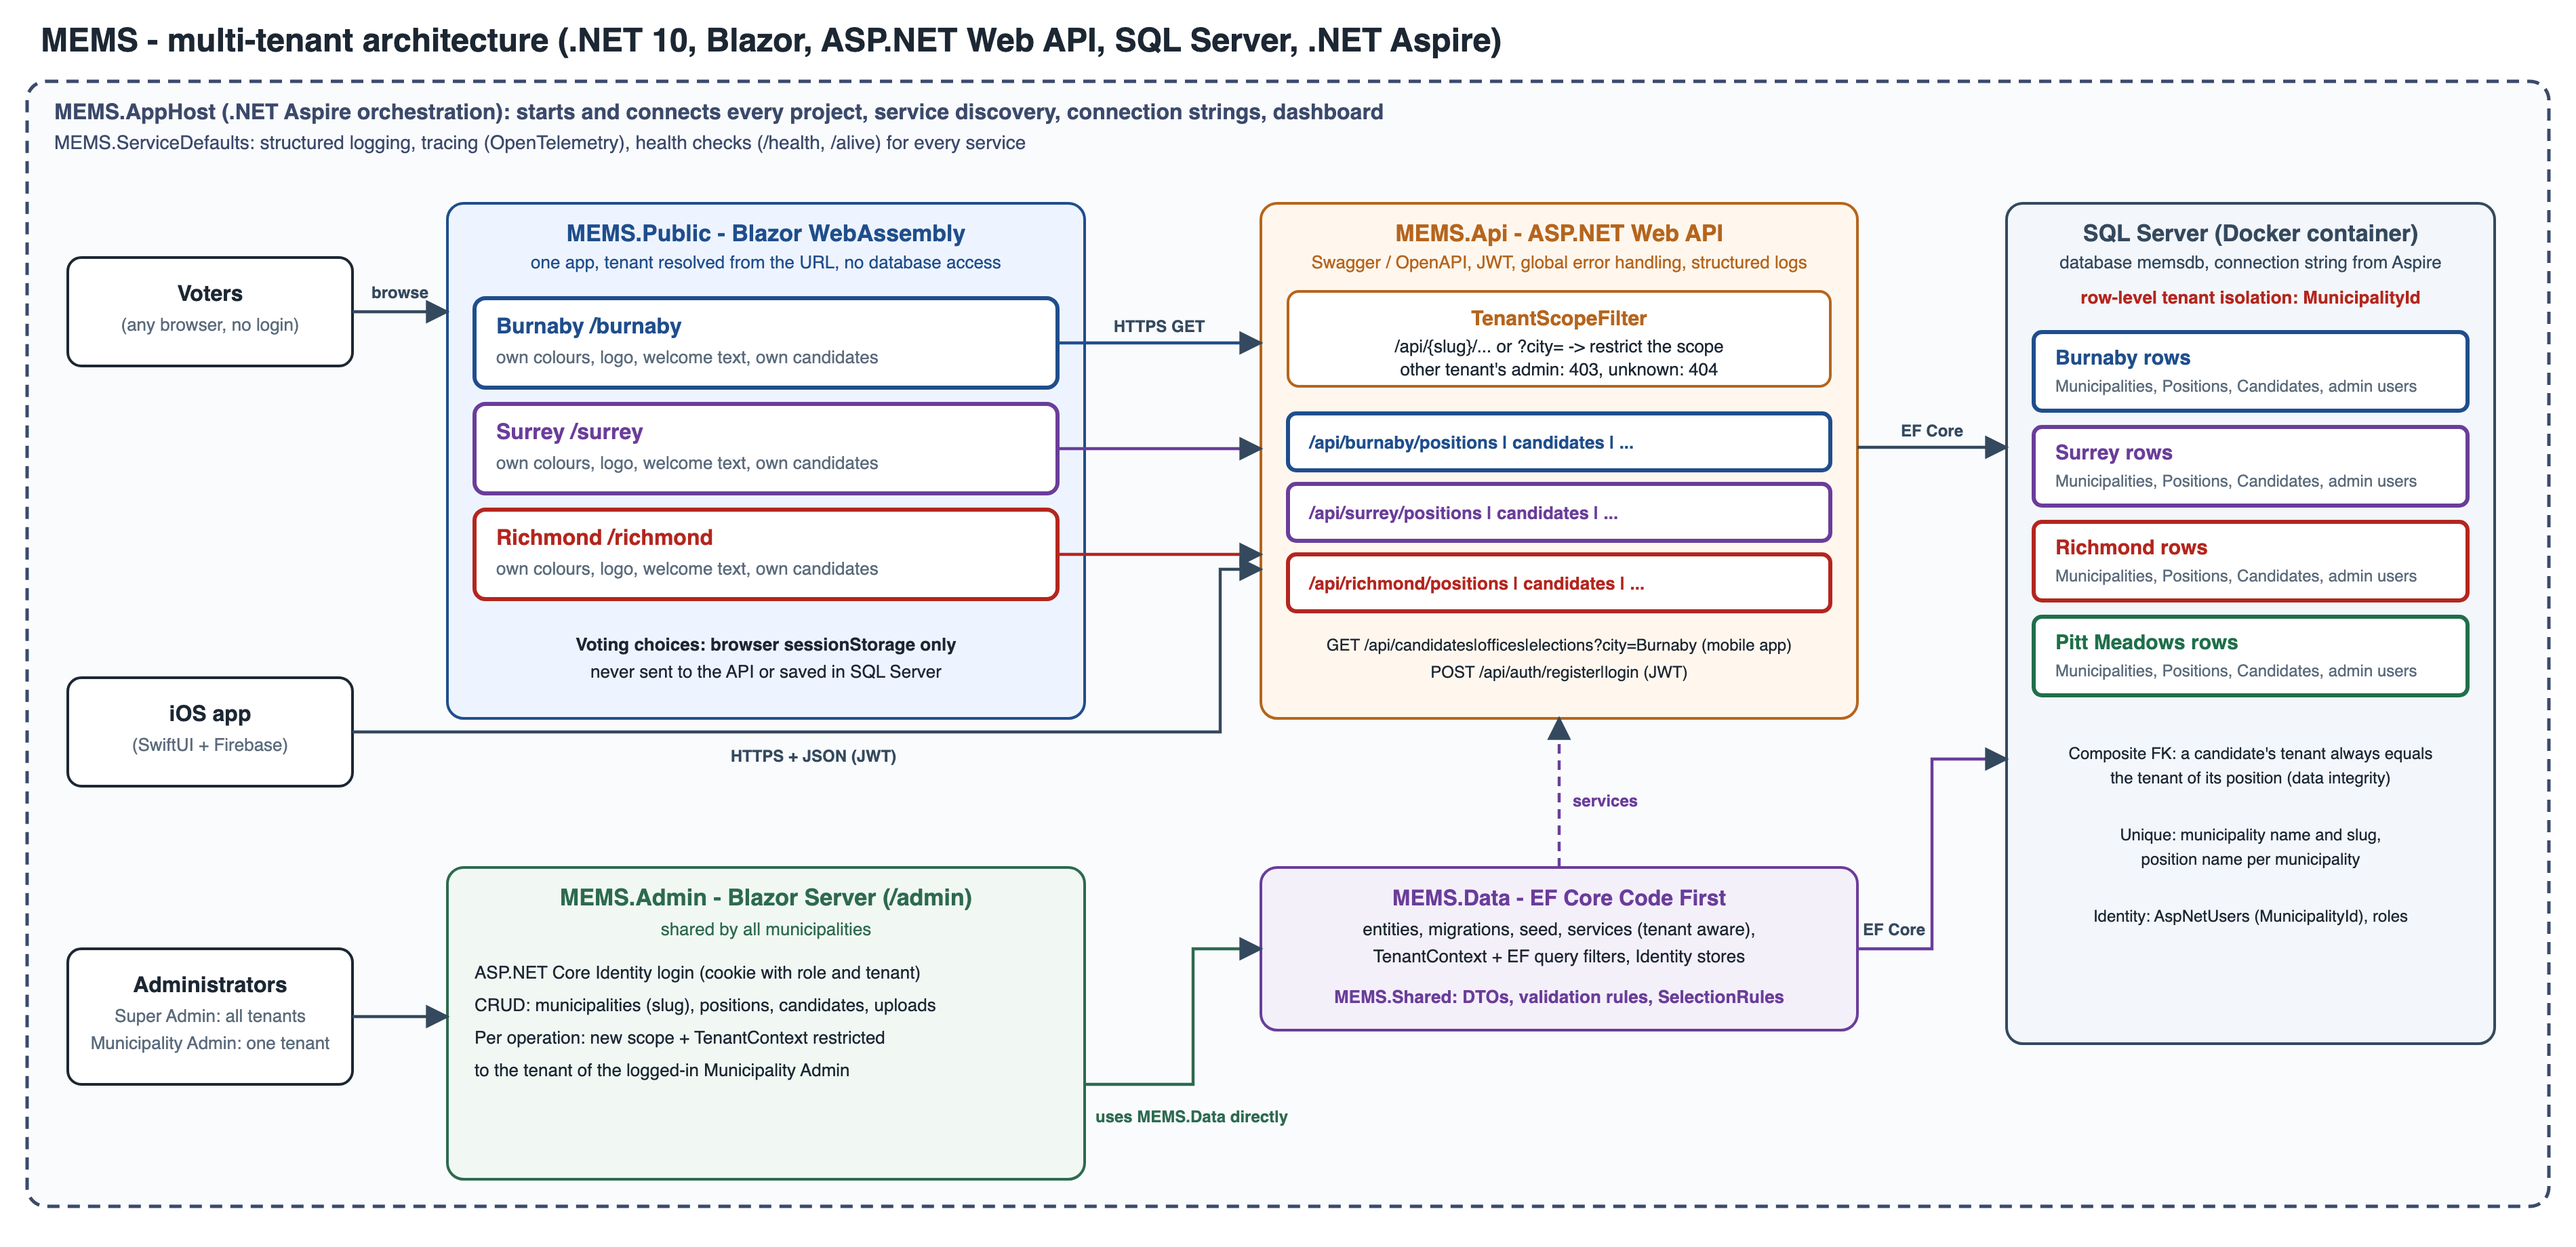
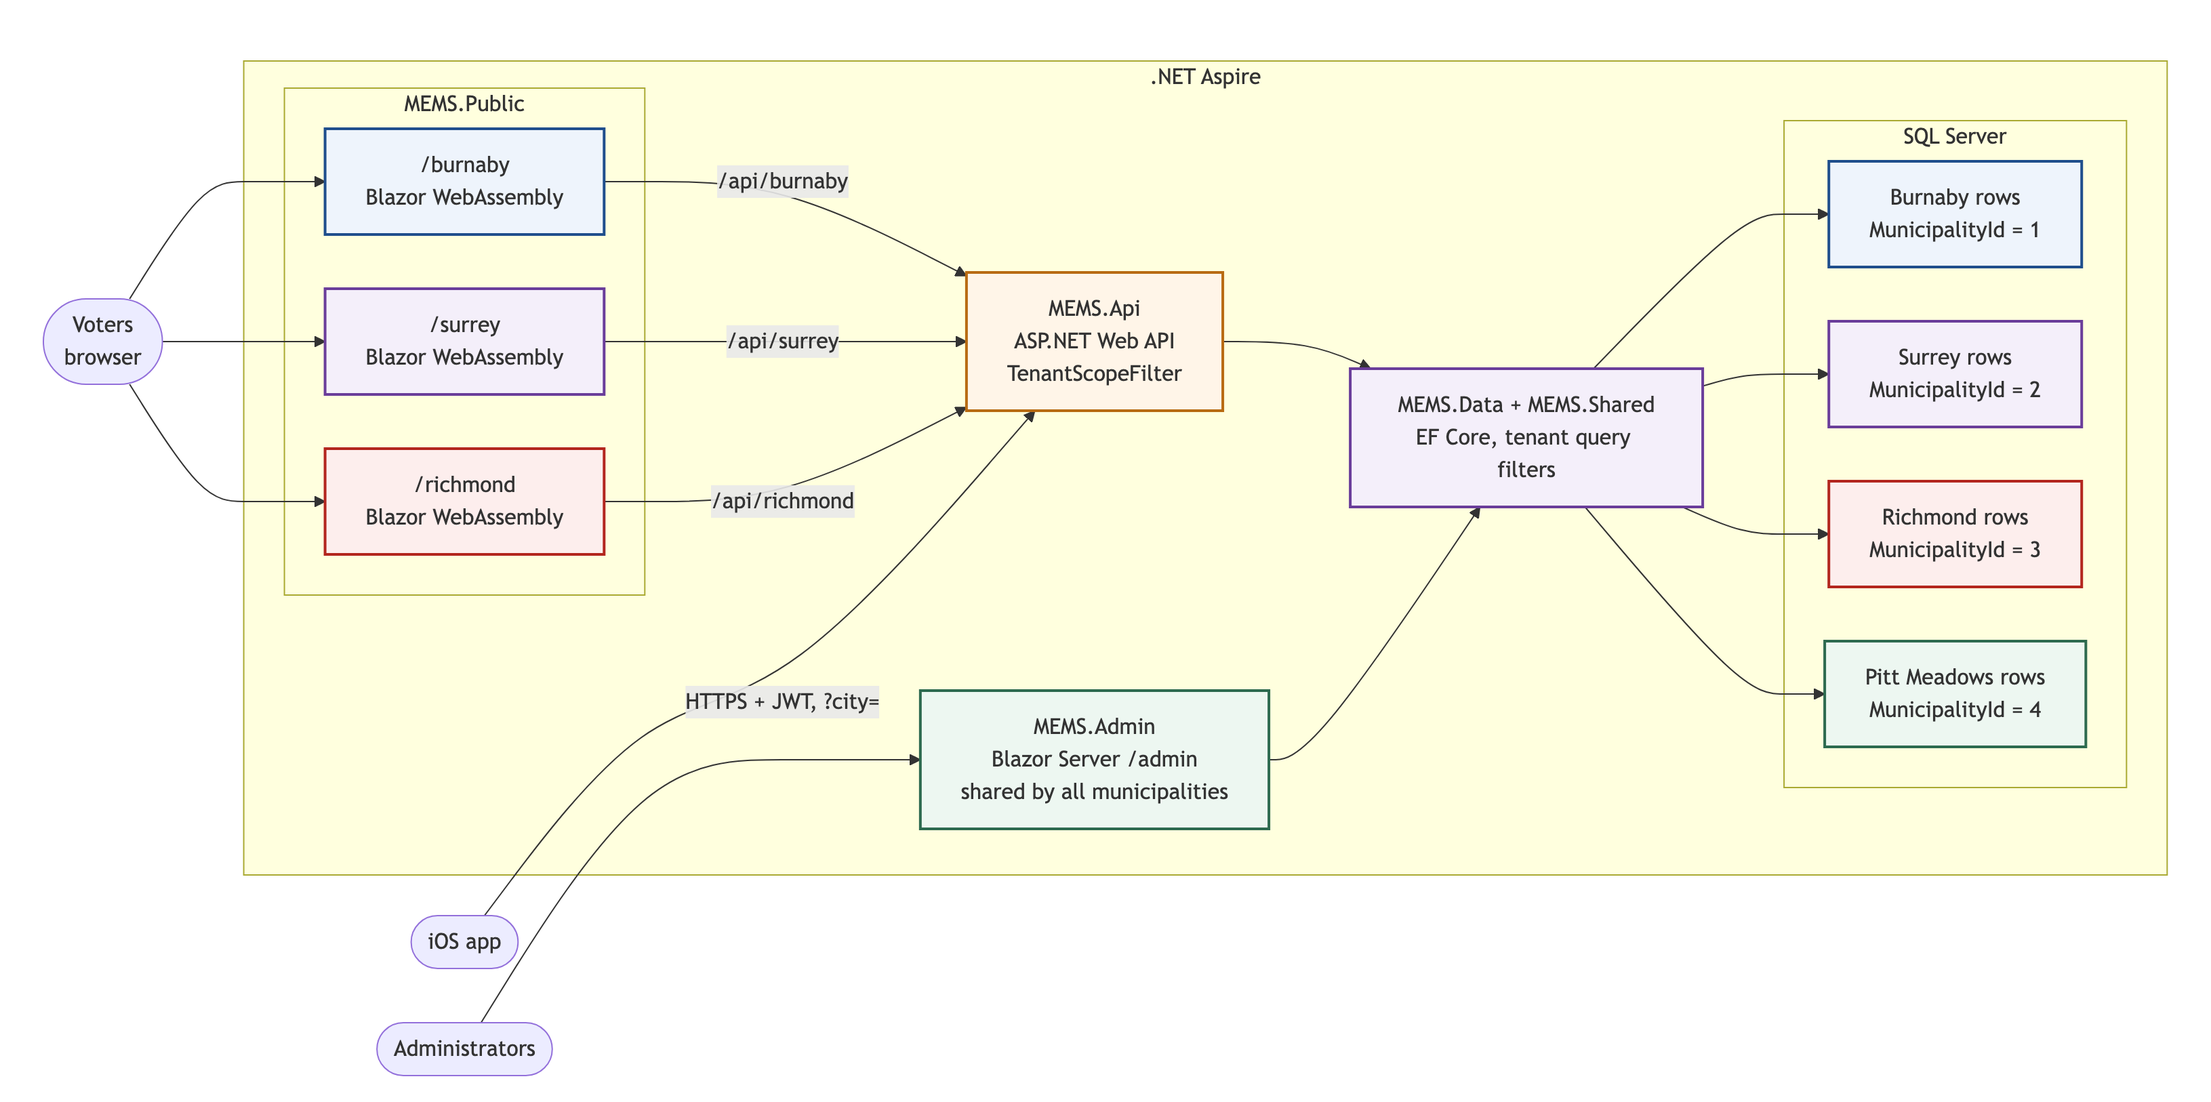
Assignment 2: Api can use SQLite (Azure deployment for the iOS app), simple Mermaid diagrams, docs updated

diff --git a/ios/MunicipalElectionsCompanion/MunicipalElectionsCompanionUITests/MunicipalElectionsCompanionUITests.swift b/ios/MunicipalElectionsCompanion/MunicipalElectionsCompanionUITests/MunicipalElectionsCompanionUITests.swift
@@ -184,6 +184,115 @@ final class MunicipalElectionsCompanionUITests: XCTestCase {
         }
     }
 
+    // MARK: - Documentation (only with DEMO=1, i.e. TEST_RUNNER_DEMO=1)
+
+    private static let demoEmail = "demo.voter@example.com"
+    private static var demoEnabled: Bool { ProcessInfo.processInfo.environment["DEMO"] == "1" }
+
+    // Creates the demo user's selections in Firebase through the app (run once, with REAL_FIREBASE=1).
+    func testSeedDemoData() throws {
+        try XCTSkipUnless(Self.demoEnabled)
+        try ensureDemoAccount()
+        launch(autoLoginEmail: Self.demoEmail)
+        if app.navigationBars["Where do you live?"].waitForExistence(timeout: 30) {
+            chooseCity("Burnaby")
+        }
+        XCTAssertTrue(app.staticTexts["City: Burnaby"].firstMatch.waitForExistence(timeout: 30))
+        go(to: "Candidates")
+        let seeds = [("Mei-Ling Tran", "Strong on transit and safer streets."),
+                     ("Arjun Bhatia", "Likes the tree canopy plan."),
+                     ("Hannah Greenwood", ""),
+                     ("Oliver Fraser", "Focus on student well-being.")]
+        for (name, note) in seeds {
+            let button = candidateButton(name, index: 0)
+            XCTAssertTrue(button.waitForExistence(timeout: 20), name)
+            button.tap()
+            if app.buttons["Add Selection"].waitForExistence(timeout: 10) {
+                app.buttons["Add Selection"].tap()
+                if !note.isEmpty {
+                    let notes = app.textViews.firstMatch
+                    XCTAssertTrue(notes.waitForExistence(timeout: 10))
+                    notes.tap()
+                    notes.typeText(note)
+                }
+                tapSave()
+                XCTAssertTrue(app.buttons["Edit Selection"].waitForExistence(timeout: 20))
+            }
+            goBack()
+        }
+    }
+
+    // The screen captures for the project document, in portrait and landscape, with the demo user's data.
+    func testDocumentationScreens() throws {
+        try XCTSkipUnless(Self.demoEnabled)
+        // City selection: only a new user sees it.
+        launch(autoLoginEmail: try createAccount())
+        XCTAssertTrue(app.navigationBars["Where do you live?"].waitForExistence(timeout: 30))
+        shot("doc-03-city-selection")
+
+        try ensureDemoAccount()
+        launch(autoLoginEmail: Self.demoEmail)
+        XCTAssertTrue(app.staticTexts["City: Burnaby"].firstMatch.waitForExistence(timeout: 30))
+
+        for (name, orientation) in [("portrait", UIDeviceOrientation.portrait), ("landscape", .landscapeLeft)] {
+            XCUIDevice.shared.orientation = orientation
+            sleep(1)
+            go(to: "Home")
+            XCTAssertTrue(app.staticTexts["Municipal Elections Companion"].waitForExistence(timeout: 10))
+            shot("doc-\(name)-04-home")
+
+            go(to: "Candidates")
+            XCTAssertTrue(candidateButton("Mayor", index: 0).waitForExistence(timeout: 20))
+            shot("doc-\(name)-05-candidate-directory")
+
+            // A candidate that is saved: Edit and Delete buttons.
+            candidateButton("Mei-Ling Tran", index: 0).tap()
+            XCTAssertTrue(app.buttons["Edit Selection"].waitForExistence(timeout: 20))
+            shot("doc-\(name)-06-candidate-details-saved")
+            app.buttons["Edit Selection"].tap()
+            XCTAssertTrue(app.textViews.firstMatch.waitForExistence(timeout: 10))
+            shot("doc-\(name)-08-edit-selection")
+            app.buttons["Cancel"].tap()
+            goBack()
+
+            // A candidate that is not saved yet: Add Selection and the create sheet.
+            candidateButton("Victor Salazar", index: 0).tap()
+            XCTAssertTrue(app.buttons["Add Selection"].waitForExistence(timeout: 20))
+            shot("doc-\(name)-06b-candidate-details")
+            app.buttons["Add Selection"].tap()
+            let notes = app.textViews.firstMatch
+            XCTAssertTrue(notes.waitForExistence(timeout: 10))
+            notes.tap()
+            notes.typeText("Compare with the other mayor.")
+            shot("doc-\(name)-07-create-selection")
+            app.buttons["Cancel"].tap()
+            goBack()
+
+            go(to: "My Selections")
+            XCTAssertTrue(app.buttons["Edit"].firstMatch.waitForExistence(timeout: 20))
+            shot("doc-\(name)-09-selection-list")
+
+            go(to: "Profile")
+            XCTAssertTrue(app.staticTexts["Saved selections"].waitForExistence(timeout: 10))
+            shot("doc-\(name)-10-profile")
+        }
+    }
+
+    private func ensureDemoAccount() throws {
+        var request = URLRequest(url: URL(string: "\(apiBase)/api/auth/register")!)
+        request.httpMethod = "POST"
+        request.setValue("application/json", forHTTPHeaderField: "Content-Type")
+        request.httpBody = try JSONSerialization.data(withJSONObject: ["name": "Demo Voter", "email": Self.demoEmail, "password": Self.password])
+        let done = expectation(description: "register demo")
+        var status = 0
+        URLSession(configuration: .ephemeral, delegate: TrustLocalhost(), delegateQueue: nil).dataTask(with: request) { _, response, _ in
+            status = (response as? HTTPURLResponse)?.statusCode ?? 0
+            done.fulfill()
+        }.resume()
+        wait(for: [done], timeout: 60)
+        XCTAssertTrue(status == 200 || status == 400, "demo account could not be registered (\(status))") // 400: already exists
+    }
+
     // MARK: - Helpers
 
     private func launch(autoLoginEmail: String?) {

diff --git a/src/MEMS.Api/Program.cs b/src/MEMS.Api/Program.cs
@@ -9,6 +9,7 @@ using MEMS.Data.Seed;
 using MEMS.Data.Services;
 using MEMS.Shared;
 using Microsoft.AspNetCore.Authentication.JwtBearer;
+using Microsoft.Data.Sqlite;
 using Microsoft.EntityFrameworkCore;
 using Microsoft.Extensions.FileProviders;
 using Microsoft.IdentityModel.Tokens;
@@ -16,12 +17,37 @@ using Microsoft.IdentityModel.Tokens;
 var builder = WebApplication.CreateBuilder(args);
 builder.AddServiceDefaults();
 
-// Database: the connection string "memsdb" comes from the Aspire AppHost.
+// Database: SQL Server with the connection string "memsdb" from the Aspire AppHost (development). The Azure deployment
+// for the iOS app uses a SQLite file instead (SQL Server would cost credits): set Database__Provider=Sqlite and
+// ConnectionStrings__memsdb="Data Source=/home/data/mems.db".
 builder.Services.AddMemsServices(builder.Configuration);
+var connectionString = builder.Configuration.GetConnectionString("memsdb");
+var useSqlite = string.Equals(builder.Configuration["Database:Provider"], "Sqlite", StringComparison.OrdinalIgnoreCase);
+if (useSqlite)
+{
+    // The folder of the database file must exist (on Azure: /home/data, which is kept between restarts).
+    var dataSource = new SqliteConnectionStringBuilder(connectionString).DataSource;
+    if (Path.GetDirectoryName(Path.GetFullPath(dataSource)) is { } folder)
+    {
+        Directory.CreateDirectory(folder);
+    }
+}
 // Not a pooled context: it takes the scoped TenantContext. Aspire adds health checks, telemetry and retries.
 builder.Services.AddDbContext<MemsDbContext>(options =>
-    options.UseSqlServer(builder.Configuration.GetConnectionString("memsdb")));
-builder.EnrichSqlServerDbContext<MemsDbContext>();
+{
+    if (useSqlite)
+    {
+        options.UseSqlite(connectionString);
+    }
+    else
+    {
+        options.UseSqlServer(connectionString);
+    }
+});
+if (!useSqlite)
+{
+    builder.EnrichSqlServerDbContext<MemsDbContext>();
+}
 builder.Services.AddMemsIdentity();
 
 // JWT bearer authentication for administrators and the mobile app.

diff --git a/src/MEMS.Data/Seed/MemsDbSeeder.cs b/src/MEMS.Data/Seed/MemsDbSeeder.cs
@@ -16,7 +16,15 @@ public static class MemsDbSeeder
     public static async Task InitializeAsync(IServiceProvider services)
     {
         var context = services.GetRequiredService<MemsDbContext>();
-        await context.Database.MigrateAsync();
+        if (context.Database.IsSqlServer())
+        {
+            await context.Database.MigrateAsync();
+        }
+        else
+        {
+            // SQLite (the Azure deployment): the migrations are written for SQL Server, so the schema is created from the model.
+            await context.Database.EnsureCreatedAsync();
+        }
 
         await SeedDomainAsync(context);
         await SeedIdentityAsync(

diff --git a/README.md b/README.md
@@ -63,13 +63,25 @@ Besides these, the API, the admin site and the public site were checked end to e
 ## Documentation
 
 - [docs/api.md](docs/api.md): endpoints, request and response examples, error responses
-- [docs/erd.png](docs/erd.png), [docs/architecture.png](docs/architecture.png)
+- [docs/erd.png](docs/erd.png), [docs/architecture.png](docs/architecture.png), [docs/ios-architecture.png](docs/ios-architecture.png): diagrams (Mermaid sources: `docs/*.mmd`)
 - [docs/deficiency-report.md](docs/deficiency-report.md): how the Assignment 1 findings were fixed
 - `.github/`: `copilot-instructions.md`, prompts and skills for the AI assistants (GitHub Copilot, Claude Code), and the Azure deployment workflow
 
 ## Branches and deployment
 
-Work is done on a personal branch, merged into `dev`, and `dev` into `main`. A push to `main` that changes `src/` redeploys the Web API to Azure App Service (`.github/workflows`). Azure needs the SQL connection string (`ConnectionStrings__memsdb`), `Jwt__Key` and the start command `dotnet MEMS.Api.dll`.
+Work is done on a personal branch, merged into `dev2` (`dev` still holds Assignment 1), and `dev2` into `main`. A push to `main` that changes `src/` redeploys only the Web API (`MEMS.Api`) to Azure App Service (`.github/workflows`); the Blazor Admin and Public sites run locally with Aspire.
+
+The deployed Api is used by the iOS app. To save Azure credits it stores its data in a **SQLite file** instead of SQL Server (the Api supports both; the Aspire setup for the .NET assignment uses SQL Server). The App Service needs these settings:
+
+| Setting | Value |
+|---|---|
+| `Database__Provider` | `Sqlite` |
+| `ConnectionStrings__memsdb` | `Data Source=/home/data/mems.db` |
+| `Jwt__Key` | a random string of at least 32 characters |
+| `Uploads__Path` | `/home/data/uploads` |
+| Startup command | `dotnet MEMS.Api.dll` |
+
+The database file is created and seeded when the Api starts.
 
 ## Submission
 

diff --git a/.github/copilot-instructions.md b/.github/copilot-instructions.md
@@ -34,7 +34,7 @@ BCIT COMP4976 (Blazor, multi-tenant) and COMP4977 (iOS app that uses the same We
 - Seed data (4 municipalities, 12 positions, 25 candidates, roles and users `super`, `pm`, `burnabyadmin`, `surreyadmin`, `richmondadmin`, password `P@$$w0rd`) is created by `MemsDbSeeder` at Api start-up.
 
 ## Do not
-- Do not use SQLite, MVC views or the Identity UI package.
+- Do not use MVC views or the Identity UI package. SQL Server is the database of the .NET solution (Aspire); SQLite is only used by the deployed Api on Azure (`Database__Provider=Sqlite`, schema from `EnsureCreated`, because the migrations are written for SQL Server). Keep the model free of provider-specific features.
 - Do not commit `*.db`, `uploads/`, `bin/`, `obj/` or build output.
 - Do not edit generated migrations; add a new one: `dotnet tool run dotnet-ef migrations add <Name> --project src/MEMS.Data`.
 - Do not merge into `main` without checking the Azure deployment (a push to `main` redeploys the Api).

diff --git a/docs/api.md b/docs/api.md
@@ -1,6 +1,6 @@
 # MEMS Web API
 
-ASP.NET Core Web API (.NET 10, EF Core, SQL Server, JWT) in `src/MEMS.Api`. It serves the Blazor public site and the iOS app. Swagger UI: `/swagger` (OpenAPI document: `/openapi/v1.json`). Health checks: `/health` and `/alive`.
+ASP.NET Core Web API (.NET 10, EF Core, JWT) in `src/MEMS.Api`. It uses SQL Server with Aspire and a SQLite file on Azure App Service (`Database__Provider=Sqlite`). It serves the Blazor public site and the iOS app. Swagger UI: `/swagger` (OpenAPI document: `/openapi/v1.json`). Health checks: `/health` and `/alive`.
 
 Local address: `https://localhost:7261` (started by the Aspire AppHost).
 
